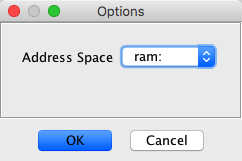
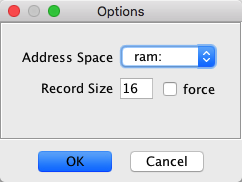
GT-2703: fixed intel hex export issue of dropping bytes on selection

diff --git a/Ghidra/Features/Base/src/main/help/help/topics/ExporterPlugin/exporter.htm b/Ghidra/Features/Base/src/main/help/help/topics/ExporterPlugin/exporter.htm
@@ -306,6 +306,12 @@
             <LI><B>Address Space</B> - Specifies which address space to export as Intel Hex format
             only supports one address space. This option will be intialized to the "default"
             address space.</LI>
+            <LI><B>Record Size</B> - Specifies the size (in bytes) of each record in the 
+            output file. The default 16.</LI>
+            <LI><B>Force</B> - If checked, this will ensure that <b>only</b> records matching
+            the record size will be output. eg: if you set the record size to 16 but there are 
+            18 bytes selected, you will see only one line of 16 bytes in the output; the remaining 
+            2 bytes will be dropped.</LI>
           </UL>
         </BLOCKQUOTE>
 

diff --git a/Ghidra/Features/Base/src/main/java/ghidra/app/util/exporter/IntelHexExporter.java b/Ghidra/Features/Base/src/main/java/ghidra/app/util/exporter/IntelHexExporter.java
@@ -15,10 +15,15 @@
  */
 package ghidra.app.util.exporter;
 
+import java.awt.BorderLayout;
+import java.awt.Component;
 import java.io.*;
 import java.util.ArrayList;
 import java.util.List;
 
+import javax.swing.*;
+
+import docking.widgets.textfield.HintTextField;
 import ghidra.app.util.*;
 import ghidra.app.util.opinion.IntelHexRecord;
 import ghidra.app.util.opinion.IntelHexRecordWriter;
@@ -29,10 +34,22 @@ import ghidra.program.model.mem.*;
 import ghidra.util.HelpLocation;
 import ghidra.util.task.TaskMonitor;
 
+/**
+ * Exports the current program (or program selection) as bytes in Intel Hex format. 
+ * <p>
+ * The output defaults to lines of 16-bytes but this is configurable using the
+ * {@link #recordSizeOption} attribute. This allows users to select any record size
+ * up to the max of 0xFF. Users may also choose to <code>force</code> a record size for every line
+ * of output, which will only print out lines that match the max record size; any other 
+ * bytes will be dropped. If this option is not set, every byte will be represented in the output.
+ */
 public class IntelHexExporter extends Exporter {
-	protected final static int MAX_BYTES_PER_LINE = 0x00000010;
 
-	protected Option option;
+	/** Option allowing the user to select the address space */
+	protected Option addressSpaceOption;
+	
+	/** Option allowing the user to select the number of bytes in each line of output */
+	protected RecordSizeOption recordSizeOption;
 
 	/**
 	 * Constructs a new Intel Hex exporter.
@@ -41,6 +58,13 @@ public class IntelHexExporter extends Exporter {
 		this("Intel Hex", "hex", new HelpLocation("ExporterPlugin", "intel_hex"));
 	}
 
+	/**
+	 * Constructor
+	 * 
+	 * @param name the name of the exporter
+	 * @param extension the extension to use for the output file
+	 * @param help location of Ghidra help
+	 */
 	protected IntelHexExporter(String name, String extension, HelpLocation help) {
 		super(name, extension, help);
 	}
@@ -55,16 +79,150 @@ public class IntelHexExporter extends Exporter {
 		}
 		Program program = (Program) domainObject;
 
-		option = new Option("Address Space", program.getAddressFactory().getDefaultAddressSpace());
+		addressSpaceOption =
+			new Option("Address Space", program.getAddressFactory().getDefaultAddressSpace());
 
-		optionsList.add(option);
+		recordSizeOption = new RecordSizeOption("Record Size", Integer.class);
+
+		optionsList.add(addressSpaceOption);
+		optionsList.add(recordSizeOption);
+
 		return optionsList;
 	}
 
 	@Override
 	public void setOptions(List<Option> options) throws OptionException {
 		if (!options.isEmpty()) {
-			option = options.get(0);
+			addressSpaceOption = options.get(0);
+			recordSizeOption = (RecordSizeOption) options.get(1); 
+		}
+	}
+
+	/**
+	 * Option for exporting Intel Hex records that allows users to specify a record size for the
+	 * output. Users may also optionally specify a <code>force</code> option that will only output
+	 * lines that match this maximum size.
+	 * 
+	 * @see RecordSizeComponent
+	 */
+	private class RecordSizeOption extends Option {
+
+		// Initialize the record size to 16 bytes when showing the option.
+		private final RecordSizeComponent comp = new RecordSizeComponent(16);
+
+		public RecordSizeOption(String name, Class<?> valueClass) {
+			super(name, valueClass);
+		}
+
+		public RecordSizeOption(String name, Class<?> valueClass, Object value, String arg,
+				String group) {
+			super(name, valueClass, value, arg, group);
+		}
+
+		@Override
+		public Component getCustomEditorComponent() {
+			return comp;
+		}
+
+		@Override
+		public Option copy() {
+			return new RecordSizeOption(getName(), getValueClass(), getValue(), getArg(),
+				getGroup());
+		}
+
+		@Override
+		public Object getValue() {
+			return comp.getValue();
+		}
+
+		@Override
+		public Class<?> getValueClass() {
+			return Integer.class;
+		}
+
+		public boolean getForce() {
+			return comp.getForce();
+		}
+	}
+
+	/**
+	 * Component that displays two widgets for setting export options: 
+	 * 
+	 * <ul>
+	 * <li><code>input</code>: a {@link HintTextField} for entering numeric digits; these 
+	 * represent the record size for each line of output</li>
+	 * <li>forceCb: a {@link JCheckBox} for specifying the <code>force</code> setting; this
+	 * enforces that every line in the output matches the specified record size</li>
+	 * </ul>
+	 * 
+	 * Note: If the <code>force</code> option is set, any bytes that are left over after outputting
+	 * all lines that match the record size will be dropped on the floor.
+	 */
+	private class RecordSizeComponent extends JPanel {
+
+		private HintTextField input;
+		private JCheckBox forceCb;
+
+		public RecordSizeComponent(int recordSize) {
+			setLayout(new BorderLayout());
+			
+			input = new HintTextField(String.valueOf(recordSize), false, new BoundedIntegerVerifier());
+			forceCb = new JCheckBox("force");
+			
+			input.setText(String.valueOf(recordSize));
+			
+			add(input, BorderLayout.CENTER);
+			add(forceCb, BorderLayout.EAST);
+		}
+
+		public int getValue() {
+			String val = input.getText();
+			if (!input.isFieldValid()) {
+				return 0x10;
+			}
+
+			return Integer.valueOf(val);
+		}
+
+		public boolean getForce() {
+			return forceCb.isSelected();
+		}
+	}
+
+	/**
+	 * Verifier for a {@link HintTextField} that ensures input is a numeric value between
+	 * 0 and 0xFF.
+	 * <p>
+	 * Input may be specified in either decimal or hex.
+	 */
+	private class BoundedIntegerVerifier extends InputVerifier {
+
+		@Override
+		public boolean verify(JComponent input) {
+			HintTextField field = (HintTextField) input;
+			String text = field.getText();
+
+			// Strip off any leading "0x" chars if the user has put them there - the
+			// parseInt method can't handle them.
+			if (text.startsWith("0x")) {
+				text = text.substring(2);
+			}
+
+			// Now try and parse the input; first as hex, then as decimal. 
+			Integer val;
+			try {
+				val = Integer.parseInt(text, 16);
+			}
+			catch (NumberFormatException e) {
+				try {
+					val = Integer.parseInt(text);
+				}
+				catch (NumberFormatException e1) {
+					return false;
+				}
+			}
+
+			return val <= 0xFF && val >= 0;
 		}
 	}
 
@@ -84,33 +242,31 @@ public class IntelHexExporter extends Exporter {
 			return false;
 		}
 
-		if (option == null) {
+		if (addressSpaceOption == null || recordSizeOption == null) {
 			getOptions(() -> program);
 		}
 
-		PrintWriter writer = new PrintWriter(new FileOutputStream(file));
+		try (PrintWriter writer = new PrintWriter(new FileOutputStream(file))) {
 
-		Memory memory = program.getMemory();
+			Memory memory = program.getMemory();
 
-		if (addrSet == null) {
-			addrSet = memory;
-		}
-
-		try {
-			List<IntelHexRecord> records = dumpMemory(program, memory, addrSet, monitor);
-			for (IntelHexRecord record : records) {
-				writer.println(record.format());
+			if (addrSet == null) {
+				addrSet = memory;
 			}
-		}
-		catch (MemoryAccessException e) {
-			throw new ExporterException(e);
-		}
-		finally {
-			// Close the PrintWriter
-			//
-			writer.close();
 
-			option = null;
+			try {
+				List<IntelHexRecord> records = dumpMemory(program, memory, addrSet, monitor);
+				for (IntelHexRecord record : records) {
+					writer.println(record.format());
+				}
+			}
+			catch (MemoryAccessException e) {
+				throw new ExporterException(e);
+			}
+			finally {
+				addressSpaceOption = null;
+				recordSizeOption = null;
+			}
 		}
 
 		return true;
@@ -118,15 +274,19 @@ public class IntelHexExporter extends Exporter {
 
 	protected List<IntelHexRecord> dumpMemory(Program program, Memory memory,
 			AddressSetView addrSetView, TaskMonitor monitor) throws MemoryAccessException {
-		IntelHexRecordWriter writer = new IntelHexRecordWriter(MAX_BYTES_PER_LINE);
+
+		int size = (int) recordSizeOption.getValue();
+		boolean forceSize = recordSizeOption.getForce();
+
+		IntelHexRecordWriter writer = new IntelHexRecordWriter(size, forceSize);
 
 		AddressSet set = new AddressSet(addrSetView);
 
 		MemoryBlock[] blocks = memory.getBlocks();
-		for (int i = 0; i < blocks.length; ++i) {
-			if (!blocks[i].isInitialized() ||
-				blocks[i].getStart().getAddressSpace() != option.getValue()) {
-				set.delete(new AddressRangeImpl(blocks[i].getStart(), blocks[i].getEnd()));
+		for (MemoryBlock block : blocks) {
+			if (!block.isInitialized() ||
+				block.getStart().getAddressSpace() != addressSpaceOption.getValue()) {
+				set.delete(new AddressRangeImpl(block.getStart(), block.getEnd()));
 			}
 		}
 

diff --git a/Ghidra/Features/Base/src/main/java/ghidra/app/util/opinion/IntelHexRecordWriter.java b/Ghidra/Features/Base/src/main/java/ghidra/app/util/opinion/IntelHexRecordWriter.java
@@ -20,21 +20,31 @@ import java.util.*;
 import ghidra.program.model.address.*;
 
 public class IntelHexRecordWriter {
+
     private final int maxBytesPerLine;
+	private final boolean forceSize;
 
     private Address startAddress = null;
     private Long oldSegment = null;
-    private ArrayList<Byte> bytes = new ArrayList<Byte>();
+	private ArrayList<Byte> bytes = new ArrayList<>();
     private Boolean isSegmented = null;
 
-    private ArrayList<IntelHexRecord> results = new ArrayList<IntelHexRecord>();
+	private ArrayList<IntelHexRecord> results = new ArrayList<>();
     private boolean done = false;
 
-    public IntelHexRecordWriter(int maxBytesPerLine) {
+	/**
+	 * Constructor
+	 * 
+	 * @param maxBytesPerLine the maximum number of bytes to write per line in the hex output
+	 * @param forceSize if true, only lines matching {@link #maxBytesPerLine} will be output; 
+	 * remaining bytes will be left out
+	 */
+	public IntelHexRecordWriter(int maxBytesPerLine, boolean forceSize) {
         if (maxBytesPerLine > IntelHexRecord.MAX_RECORD_LENGTH) {
             throw new IllegalArgumentException("maxBytesPerLine > IntelHexRecord.MAX_RECORD_LENGTH");
         }
         this.maxBytesPerLine = maxBytesPerLine;
+		this.forceSize = forceSize;
     }
 
     public void addByte(Address address, byte b) {
@@ -117,6 +127,13 @@ public class IntelHexRecordWriter {
     }
 
     public List<IntelHexRecord> finish(Address entryPoint) {
+
+		// Before finalizing things, write out any remaining bytes that haven't yet been written, if
+		// the user has specified to do so via the force option (false = write out everything).
+		if (bytes.size() > 0 && !forceSize) {
+			emitData();
+		}
+
         if (entryPoint != null && isSegmented != null) {
             final long offset = entryPoint.getOffset();
             byte[] data = new byte[4];

diff --git a/Ghidra/Features/Base/src/main/java/ghidra/app/util/Option.java b/Ghidra/Features/Base/src/main/java/ghidra/app/util/Option.java
@@ -96,6 +96,15 @@ public class Option {
 		this.listener = listener;
 	}
 
+	/**
+	 * Override if you want to provide a custom widget for selecting your
+	 * options. 
+	 * <p>
+	 * Important! If you override this you MUST also override the {@link #copy()}
+	 * method so it returns a new instance of your custom editor. 
+	 * 
+	 * @return the custom editor
+	 */
 	public Component getCustomEditorComponent() {
 		return null;
 	}
